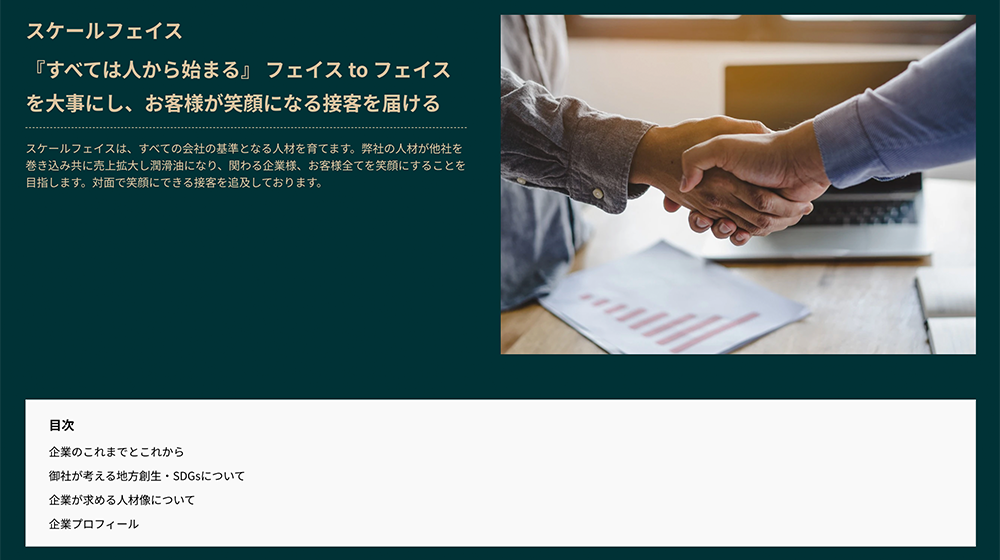
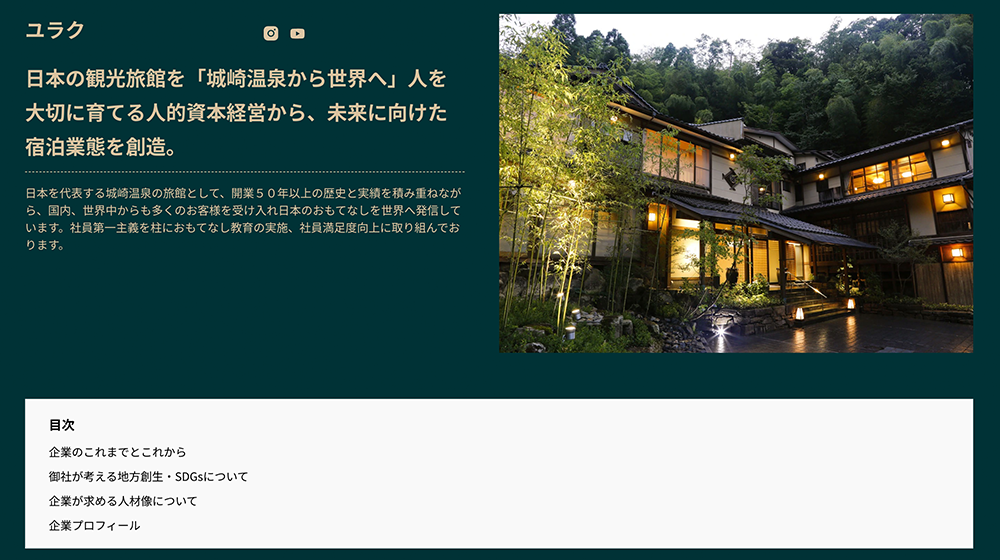
“2026.10.20修正”

diff --git a/src/components/shikumi/Section9.tsx b/src/components/shikumi/Section9.tsx
@@ -134,7 +134,7 @@ export default function Section9() {
           </Text>
         </motion.div>
 
-        <div className="w-full max-w-5xl grid grid-cols-1 lg:grid-cols-3 gap-6 mb-6">
+        <div className="w-full max-w-5xl grid grid-cols-1 lg:grid-cols-3 gap-4 md:gap-6 mb-6">
           {/* 左カード：生成AI利用率 */}
           <motion.div
             initial="hidden"
@@ -143,12 +143,12 @@ export default function Section9() {
             variants={itemFadeUp}
             className="lg:col-span-2 bg-white rounded-xl shadow-xl overflow-hidden flex flex-col text-text"
           >
-            <div className="bg-text text-white font-sans font-bold text-lg md:text-xl leading-relaxed m-6 md:m-8 py-1 px-2 text-center">
+            <div className="bg-text text-white font-sans font-bold text-lg md:text-xl leading-relaxed m-4 md:m-8 py-1 px-2 text-center">
               生成AIを検索手段として
               <br className="block md:hidden" />
               利用する割合
             </div>
-            <div className="px-6 md:px-8 pb-6 md:pb-8 flex flex-col sm:flex-row items-center gap-4 md:gap-8 justify-center h-full">
+            <div className="px-4 md:px-8 pb-6 md:pb-8 flex flex-col sm:flex-row items-center gap-4 md:gap-8 justify-center h-full">
               {/* 棒グラフエリア */}
               <div
                 className="flex items-end gap-3 md:gap-4 h-full"
@@ -239,19 +239,19 @@ export default function Section9() {
             whileInView="visible"
             viewport={{ once: true, margin: "-50px" }}
             variants={itemFadeUp}
-            className="lg:col-span-1 bg-white rounded-xl shadow-xl p-6 md:p-8 flex flex-col justify-center items-center text-text"
+            className="lg:col-span-1 bg-white rounded-xl shadow-xl p-4 md:p-8 flex flex-col justify-center items-center text-text"
           >
-            <p className="font-bold text-base md:text-xl leading-relaxed mb-4 md:mb-8 text-left">
+            <p className="font-bold text-base md:text-xl leading-relaxed mb-2 md:mb-4 text-left">
               AIは、Web上に存在する様々な情報を元に、企業について説明します。
             </p>
 
             <div
-              className="relative flex-1 flex items-center justify-center min-h-[160px] md:min-h-[240px]"
+              className="relative flex-1 flex items-center justify-center min-h-[220px] md:min-h-[240px]"
               aria-hidden="true"
             >
               <svg
                 viewBox="0 0 200 200"
-                className="w-full max-w-[200px] md:max-w-[240px] h-auto overflow-visible"
+                className="w-full max-w-[220px] md:max-w-[240px] h-auto overflow-visible"
               >
                 <motion.g
                   initial="hidden"
@@ -370,14 +370,14 @@ export default function Section9() {
           variants={itemFadeUp}
           className="w-full max-w-5xl bg-white rounded-xl shadow-xl overflow-hidden flex flex-col text-text"
         >
-          <div className="p-8 md:p-12 text-left md:text-center flex flex-col items-center">
+          <div className="p-4 md:p-12 text-left md:text-center flex flex-col items-center">
             <h3 className="text-base md:text-2xl font-bold leading-relaxed mb-6 md:mb-10">
               「地域を代表する企業100選」選出企業の
               <br className="hidden md:block" />
               特設ページは、すでにAIにも引用されています。
             </h3>
 
-            <div className="flex flex-col md:flex-row items-center justify-center gap-6 md:gap-12 w-full">
+            <div className="flex flex-col md:flex-row items-center justify-center gap-3 md:gap-12 w-full">
               <motion.div
                 initial={{ scale: 1.2, opacity: 0 }}
                 whileInView={{ scale: 1, opacity: 1 }}
@@ -407,8 +407,8 @@ export default function Section9() {
             </div>
           </div>
 
-          <div className="bg-[linear-gradient(135deg,#003064_32%,#004895_53%,#0052AA_67%,#004289_76%,#003064_88%)] text-white font-sans text-center px-2 py-4 md:py-6 font-bold text-base md:text-xl tracking-widest">
-            選出後も、企業の取り組みやニュースを継続的に発信できます。
+          <div className="bg-[linear-gradient(135deg,#003064_32%,#004895_53%,#0052AA_67%,#004289_76%,#003064_88%)] text-white font-sans text-center px-4 py-2 md:py-6 font-bold text-sm md:text-xl tracking-widest">
+            選出後も企業の取り組みやニュースを継続的に発信できます。
           </div>
         </motion.div>
         <CTAButton text="継続的に発信する方法を聞く" />

diff --git a/src/components/shikumi/Section12.tsx b/src/components/shikumi/Section12.tsx
@@ -166,14 +166,14 @@ export default function Section12() {
             {/* 選出企業特設ページ公開 */}
             <motion.div
               variants={itemFadeUp}
-              className="w-full bg-[#FCFAEC] border border-text2/50 rounded-md p-6 md:p-12 shadow-md flex flex-col items-center mt-2"
+              className="w-full bg-[#FCFAEC] border border-text2/50 rounded-md p-3 md:p-12 shadow-md flex flex-col items-center mt-2"
             >
               <h3 className="font-bold text-xl md:text-3xl text-text2 tracking-wider mb-6 md:mb-10">
                 選出企業特設ページ公開
               </h3>
 
               {/* サムネイル画像グリッド (PC/SP共通で2x2) */}
-              <div className="grid grid-cols-2 gap-3 md:gap-6 w-full max-w-4xl">
+              <div className="grid grid-cols-2 gap-2 md:gap-6 w-full max-w-4xl">
                 {[1, 2, 3, 4].map((num) => (
                   <div
                     key={`thumb-${num}`}
@@ -190,9 +190,9 @@ export default function Section12() {
                 ))}
               </div>
 
-              <div className="w-full max-w-4xl text-right mt-4 md:mt-6">
-                <p className="text-[10px] md:text-sm text-gray-700 font-medium tracking-wide">
-                  公開例：株式会社スケールフェイス
+              <div className="w-full max-w-4xl text-right mt-1 md:mt-3">
+                <p className="text-[10px] md:text-sm text-text2 tracking-wide">
+                  公開例：株式会社ユラク
                 </p>
               </div>
             </motion.div>
@@ -207,11 +207,7 @@ export default function Section12() {
           variants={itemFadeUp}
           className="mt-10 md:mt-20 w-full flex flex-col items-center text-center px-4"
         >
-          <Heading2>
-            選出は、ゴールでは
-            <br className="md:hidden" />
-            ありません。
-          </Heading2>
+          <Heading2>選出は、ゴールではありません。</Heading2>
           <Text>
             交流会／企業間マッチング／企業ニュース取り 組みの継続発信／
             <br className="hidden lg:block" />

diff --git a/src/components/shikumi/Section6.tsx b/src/components/shikumi/Section6.tsx
@@ -31,12 +31,12 @@ const mockArticles = [
   },
   {
     id: 3,
-    title: "産経新聞主催 地方創生イベント審査員",
+    title: "内閣府 地方創生SDGs官民連携PFで分科会設立",
     description:
-      "株式会社IOBI代表取締役の石井が「地方鉄道×地方創生 ビジネスプランコンテスト」で審査員を務めました。",
-    tag: "外部評価の場",
-    imageUrl: "/images/shikumi/section6/thumb3.webp",
-    link: "https://madeinlocal.jp/category/feature/048",
+      "株式会社IOBIが内閣府「地方創生SDGs官民連携プラットフォーム」に分科会を設置しました！",
+    tag: "官民連携",
+    imageUrl: "/images/shikumi/section6/thumb6.webp",
+    link: "https://madeinlocal.jp/category/feature/068",
   },
   {
     id: 4,
@@ -58,12 +58,12 @@ const mockArticles = [
   },
   {
     id: 6,
-    title: "内閣府 地方創生SDGs官民連携PFで分科会設立",
+    title: "産経新聞主催 地方創生イベント審査員",
     description:
-      "株式会社IOBIが内閣府「地方創生SDGs官民連携プラットフォーム」に分科会を設置しました！",
-    tag: "官民連携",
-    imageUrl: "/images/shikumi/section6/thumb6.webp",
-    link: "https://madeinlocal.jp/category/feature/068",
+      "株式会社IOBI代表取締役の石井が「地方鉄道×地方創生 ビジネスプランコンテスト」で審査員を務めました。",
+    tag: "外部評価の場",
+    imageUrl: "/images/shikumi/section6/thumb3.webp",
+    link: "https://madeinlocal.jp/category/feature/048",
   },
 ];
 

diff --git a/src/components/shikumi/Section7.tsx b/src/components/shikumi/Section7.tsx
@@ -124,7 +124,7 @@ export default function Section7() {
           whileInView="visible"
           viewport={{ once: true, margin: "-100px" }}
           variants={itemFadeUp}
-          className="w-full max-w-5xl bg-white rounded-xl shadow-2xl p-5 md:p-16 text-midblue flex flex-col items-center text-center"
+          className="w-full max-w-5xl bg-white rounded-xl shadow-2xl p-4 md:p-16 text-midblue flex flex-col items-center text-center"
         >
           <div className="mb-6 md:mb-12">
             <Heading2>選ばれた証を社会との新しい接点へ</Heading2>

diff --git a/src/components/shikumi/Section10.tsx b/src/components/shikumi/Section10.tsx
@@ -122,7 +122,7 @@ export default function Section10() {
           whileInView={{ opacity: 1, y: 0 }}
           viewport={{ once: true, margin: "-100px" }}
           transition={{ duration: 0.8, delay: 0.4 }}
-          className="w-full max-w-5xl bg-white rounded-xl shadow-md border border-gray-100 p-8 md:p-12"
+          className="w-full max-w-5xl bg-white rounded-xl shadow-md border border-gray-100 p-4 md:p-12"
         >
           <div className="flex flex-col lg:flex-row gap-10">
             {/* テキストエリア */}

diff --git a/src/components/shikumi/Section8.tsx b/src/components/shikumi/Section8.tsx
@@ -308,7 +308,7 @@ export default function Section8() {
           </div>
 
           {/* 右：コンテンツエリア */}
-          <div className="relative z-0 lg:w-2/3 lg:flex-1 bg-white rounded-2xl shadow-md border border-text2/30 p-6 md:p-10 lg:pl-14 min-h-[500px]">
+          <div className="relative z-0 lg:w-2/3 lg:flex-1 bg-white rounded-2xl shadow-md border border-text2/30 p-4 md:p-10 lg:pl-14 min-h-[500px]">
             <AnimatePresence mode="wait">
               <motion.div
                 key={activeTab}
